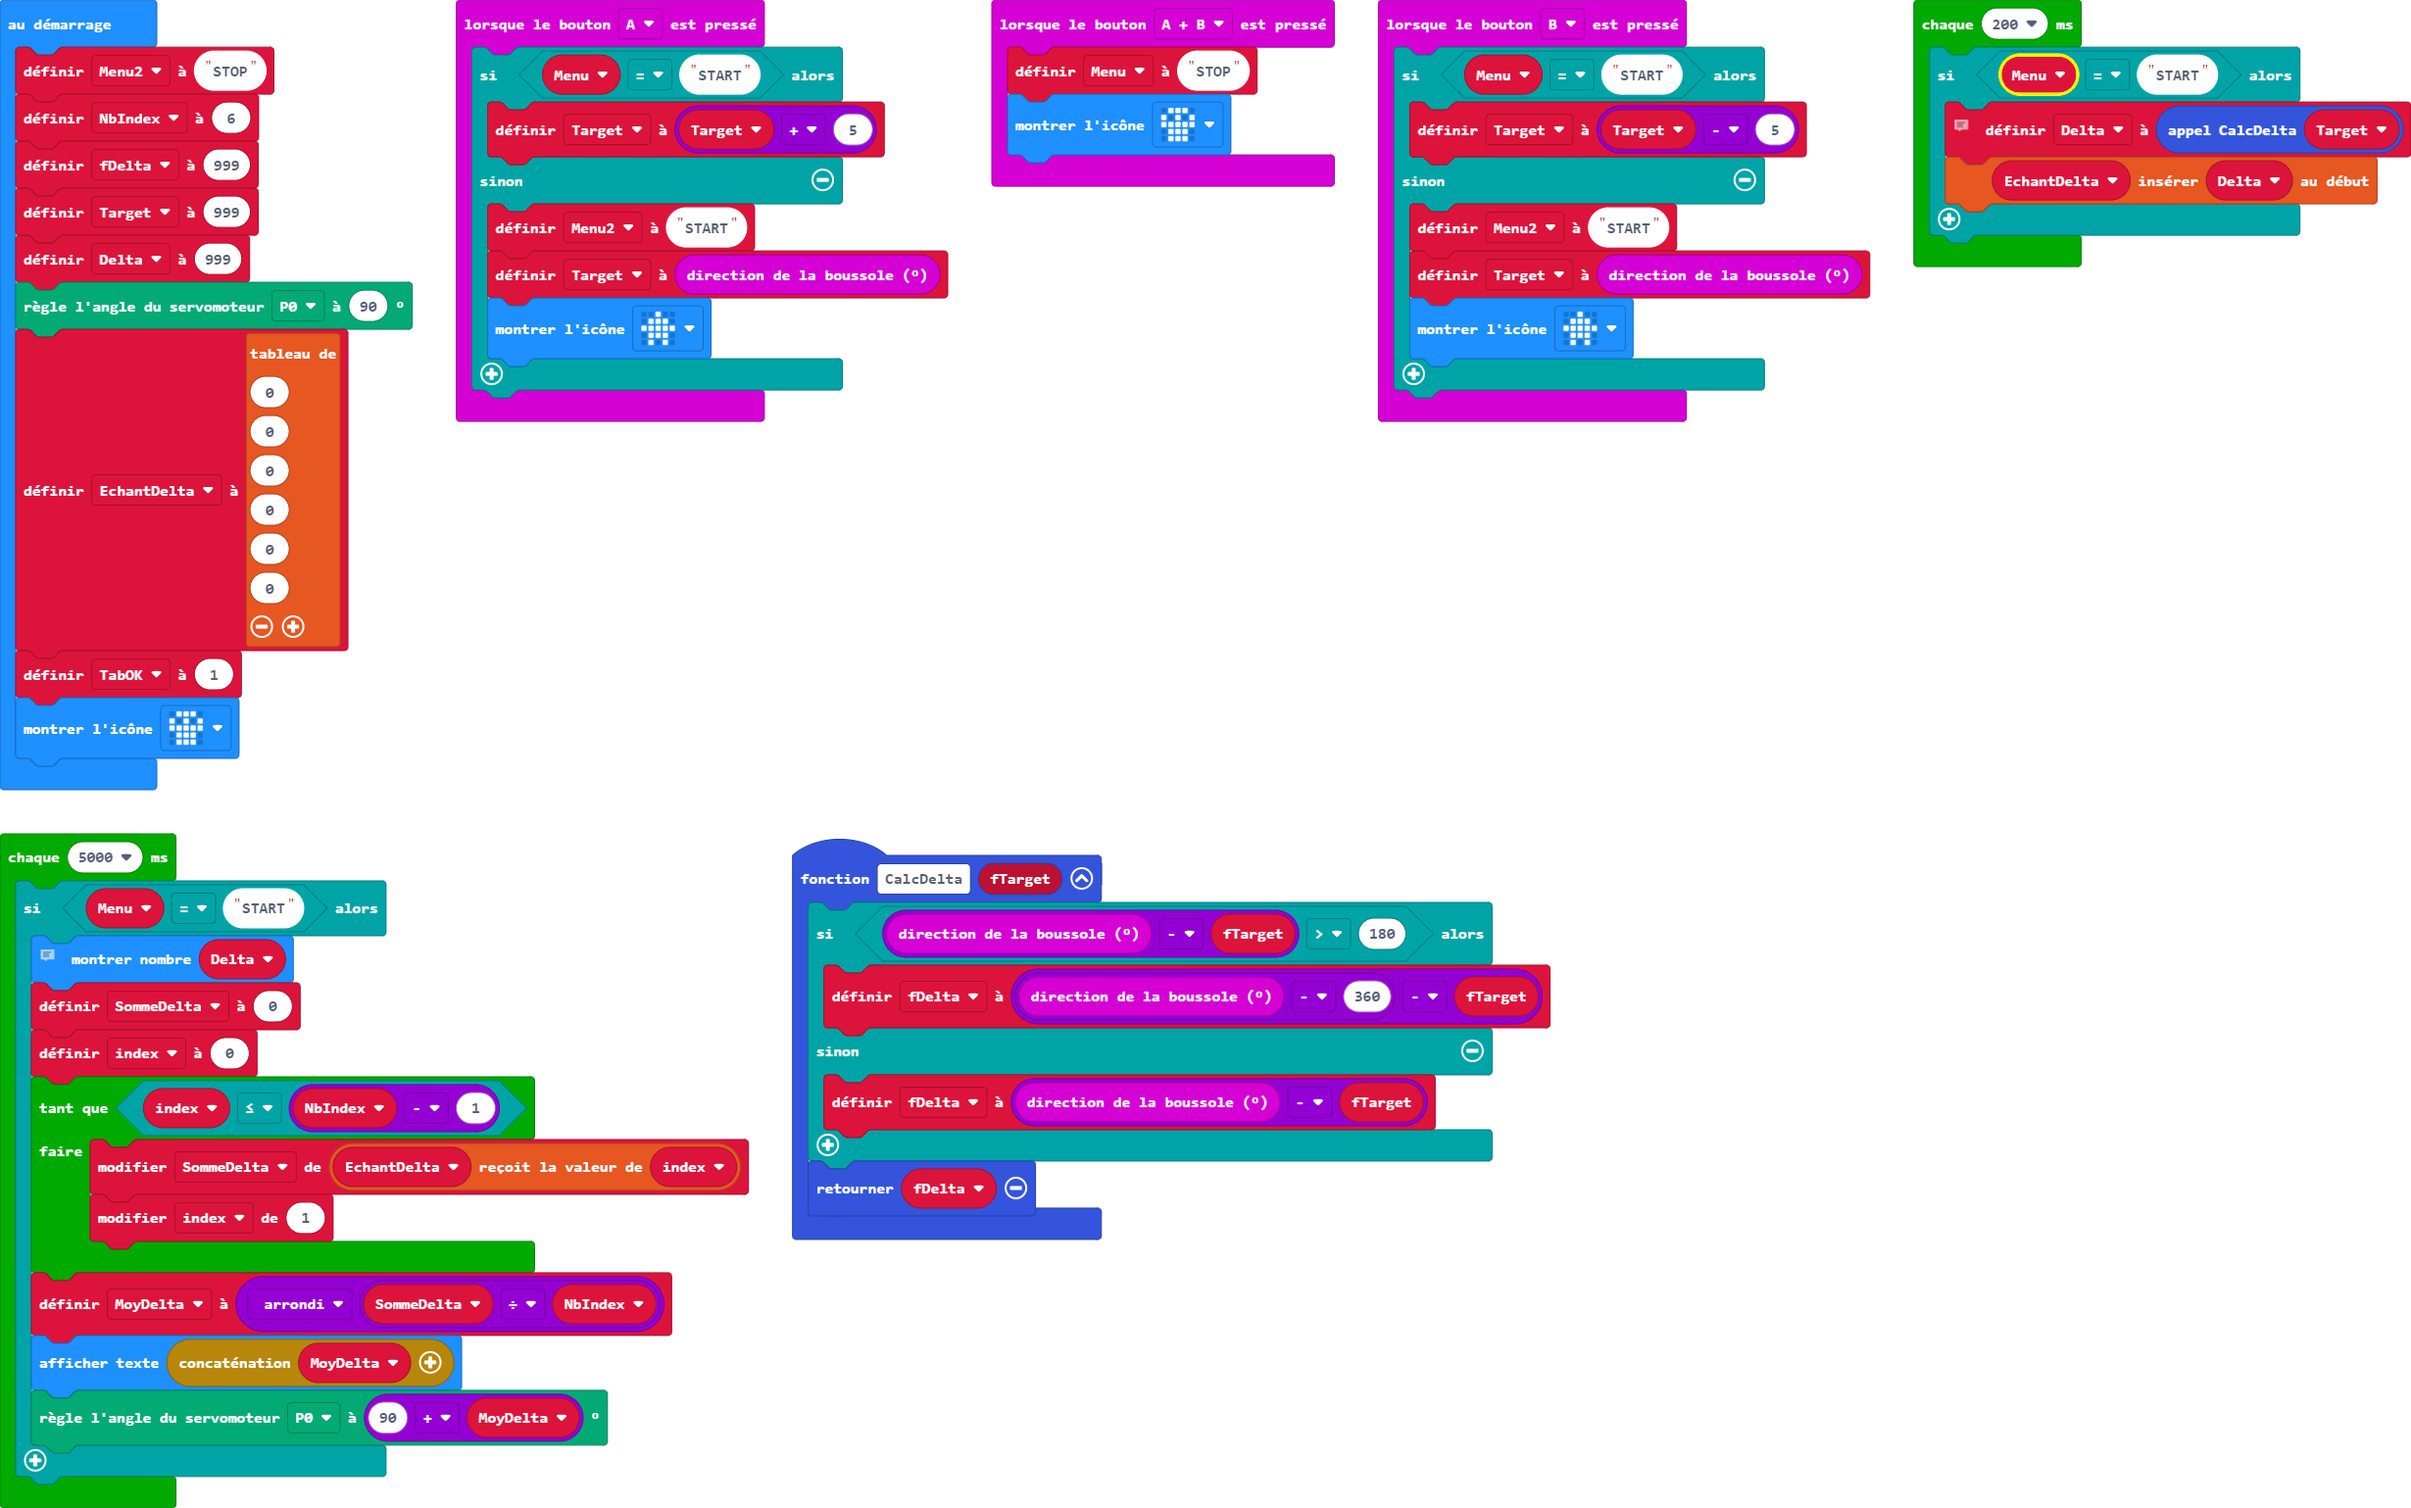
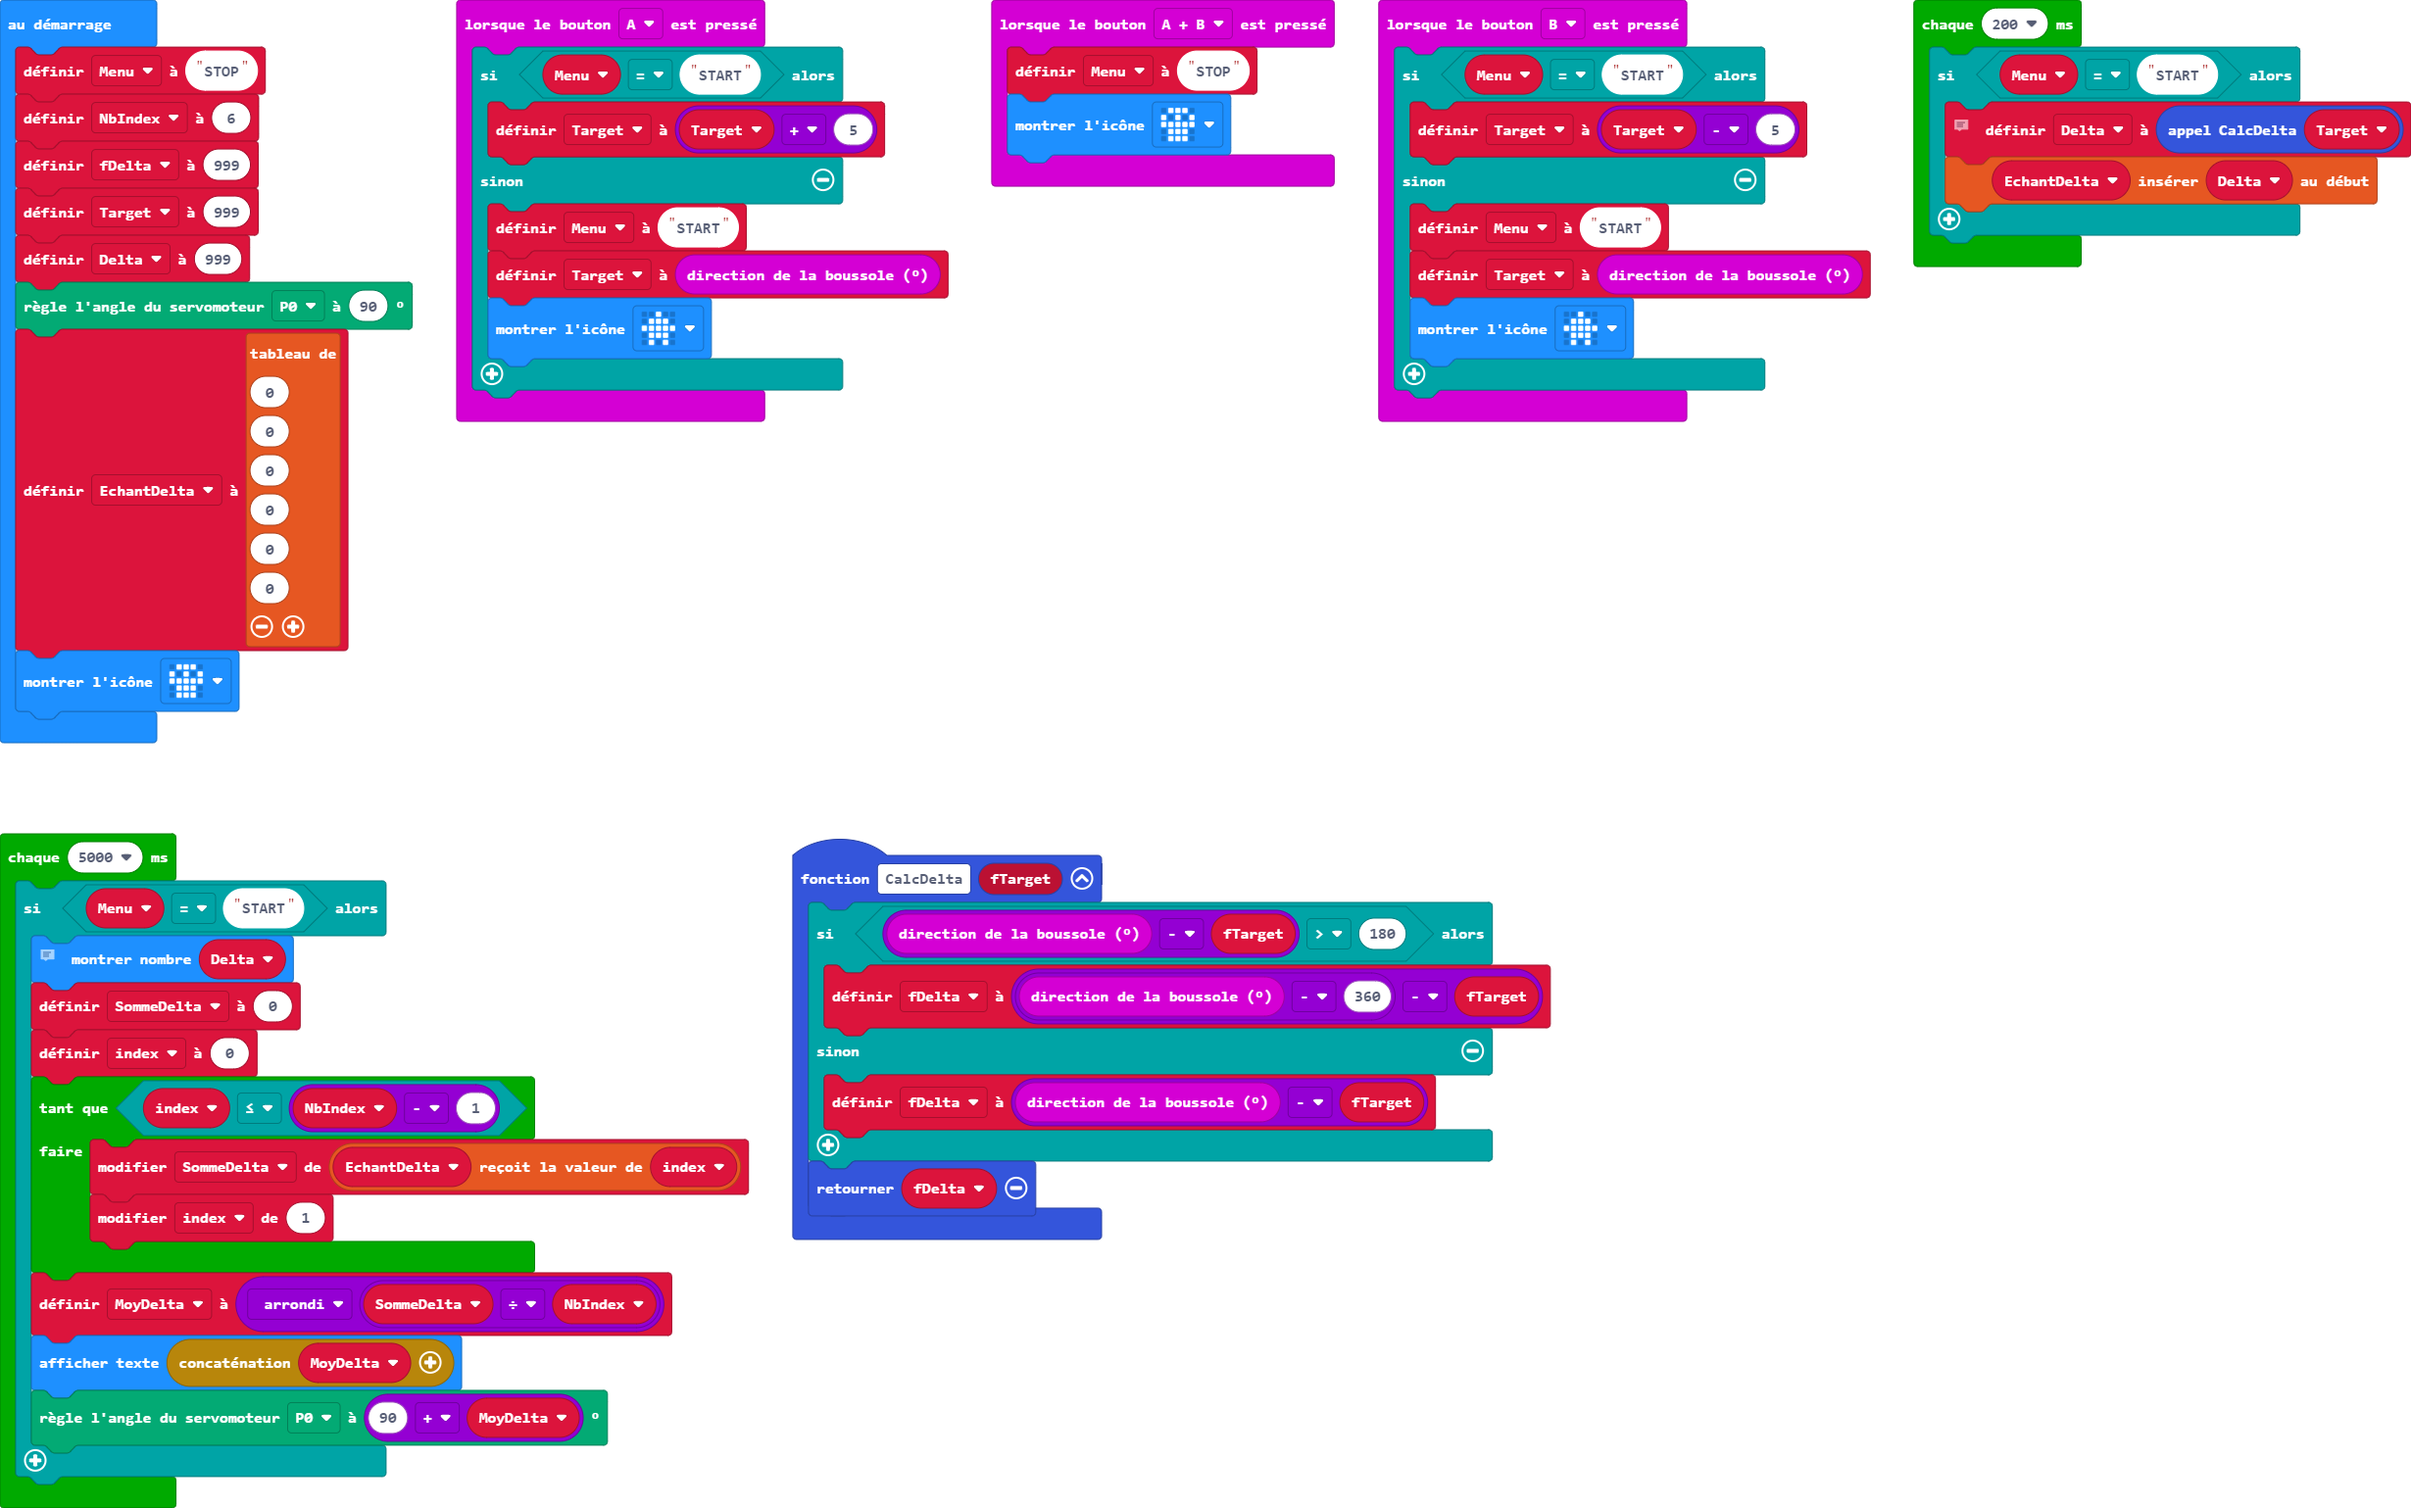
Mise à jour main.blocks, main.ts, main.py

diff --git a/main.ts b/main.ts
@@ -9,11 +9,6 @@ input.onButtonPressed(Button.A, function on_button_pressed_a() {
     }
     
 })
-input.onButtonPressed(Button.AB, function on_button_pressed_ab() {
-    
-    Menu = "STOP"
-    basic.showIcon(IconNames.Skull)
-})
 input.onButtonPressed(Button.B, function on_button_pressed_b() {
     
     if (Menu == "START") {
@@ -24,6 +19,11 @@ input.onButtonPressed(Button.B, function on_button_pressed_b() {
         basic.showIcon(IconNames.House)
     }
     
+})
+input.onButtonPressed(Button.AB, function on_button_pressed_ab() {
+    
+    Menu = "STOP"
+    basic.showIcon(IconNames.Skull)
 })
 function CalcDelta(fTarget: number): number {
     
@@ -39,9 +39,9 @@ function CalcDelta(fTarget: number): number {
 let MoyDelta = 0
 let index = 0
 let SommeDelta = 0
-let Menu = ""
 let Target = 0
 let fDelta = 0
+let Menu = ""
 Menu = "STOP"
 let NbIndex = 6
 fDelta = 999
@@ -49,7 +49,6 @@ Target = 999
 let Delta = 999
 servos.P0.setAngle(90)
 let EchantDelta = [0, 0, 0, 0, 0, 0]
-let TabOK = 1
 basic.showIcon(IconNames.Skull)
 loops.everyInterval(200, function on_every_interval() {
     

diff --git a/main.py b/main.py
@@ -8,12 +8,6 @@ def on_button_pressed_a():
         basic.show_icon(IconNames.HOUSE)
 input.on_button_pressed(Button.A, on_button_pressed_a)
 
-def on_button_pressed_ab():
-    global Menu
-    Menu = "STOP"
-    basic.show_icon(IconNames.SKULL)
-input.on_button_pressed(Button.AB, on_button_pressed_ab)
-
 def on_button_pressed_b():
     global Target, Menu
     if Menu == "START":
@@ -23,6 +17,12 @@ def on_button_pressed_b():
         Target = input.compass_heading()
         basic.show_icon(IconNames.HOUSE)
 input.on_button_pressed(Button.B, on_button_pressed_b)
+
+def on_button_pressed_ab():
+    global Menu
+    Menu = "STOP"
+    basic.show_icon(IconNames.SKULL)
+input.on_button_pressed(Button.AB, on_button_pressed_ab)
 
 def CalcDelta(fTarget: number):
     global fDelta
@@ -34,9 +34,9 @@ def CalcDelta(fTarget: number):
 MoyDelta = 0
 index = 0
 SommeDelta = 0
-Menu = ""
 Target = 0
 fDelta = 0
+Menu = ""
 Menu = "STOP"
 NbIndex = 6
 fDelta = 999
@@ -44,7 +44,6 @@ Target = 999
 Delta = 999
 servos.P0.set_angle(90)
 EchantDelta = [0, 0, 0, 0, 0, 0]
-TabOK = 1
 basic.show_icon(IconNames.SKULL)
 
 def on_every_interval():
